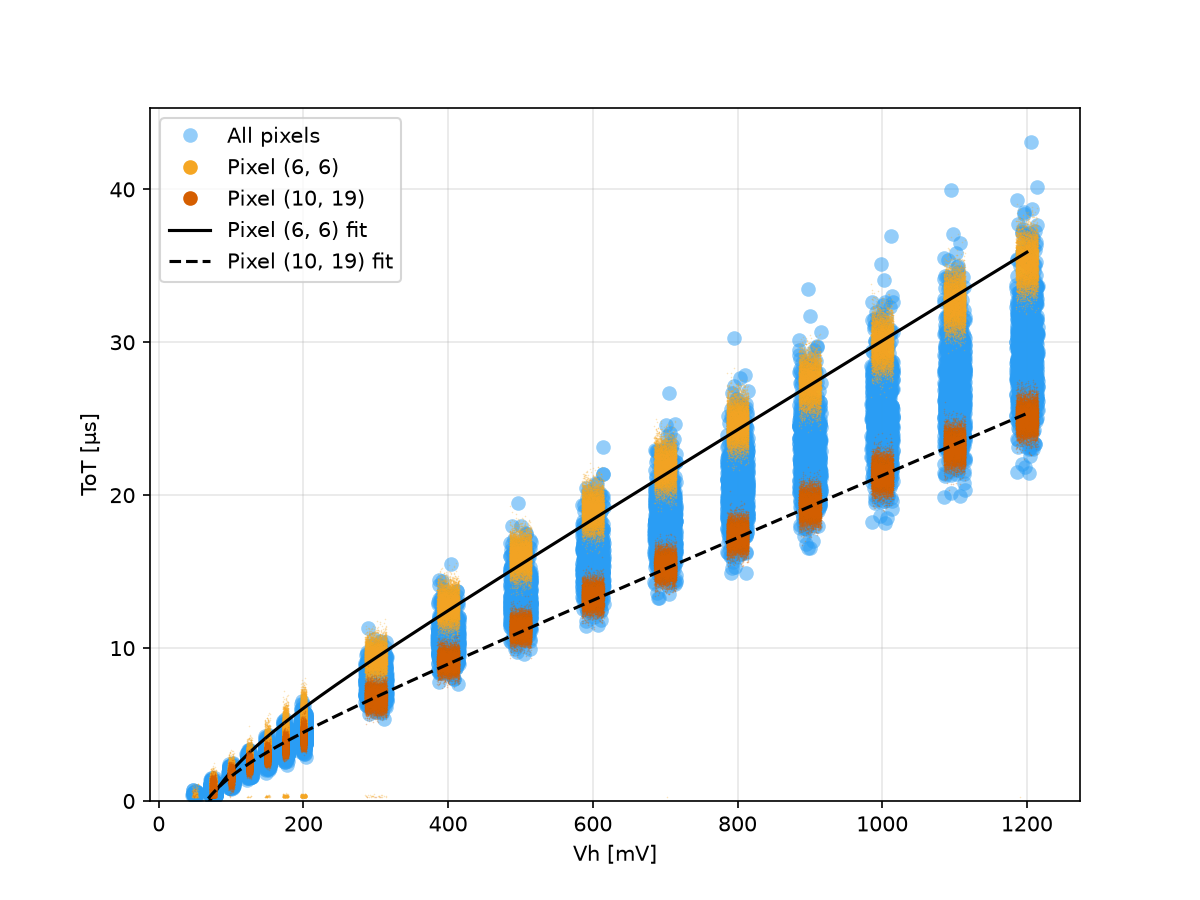
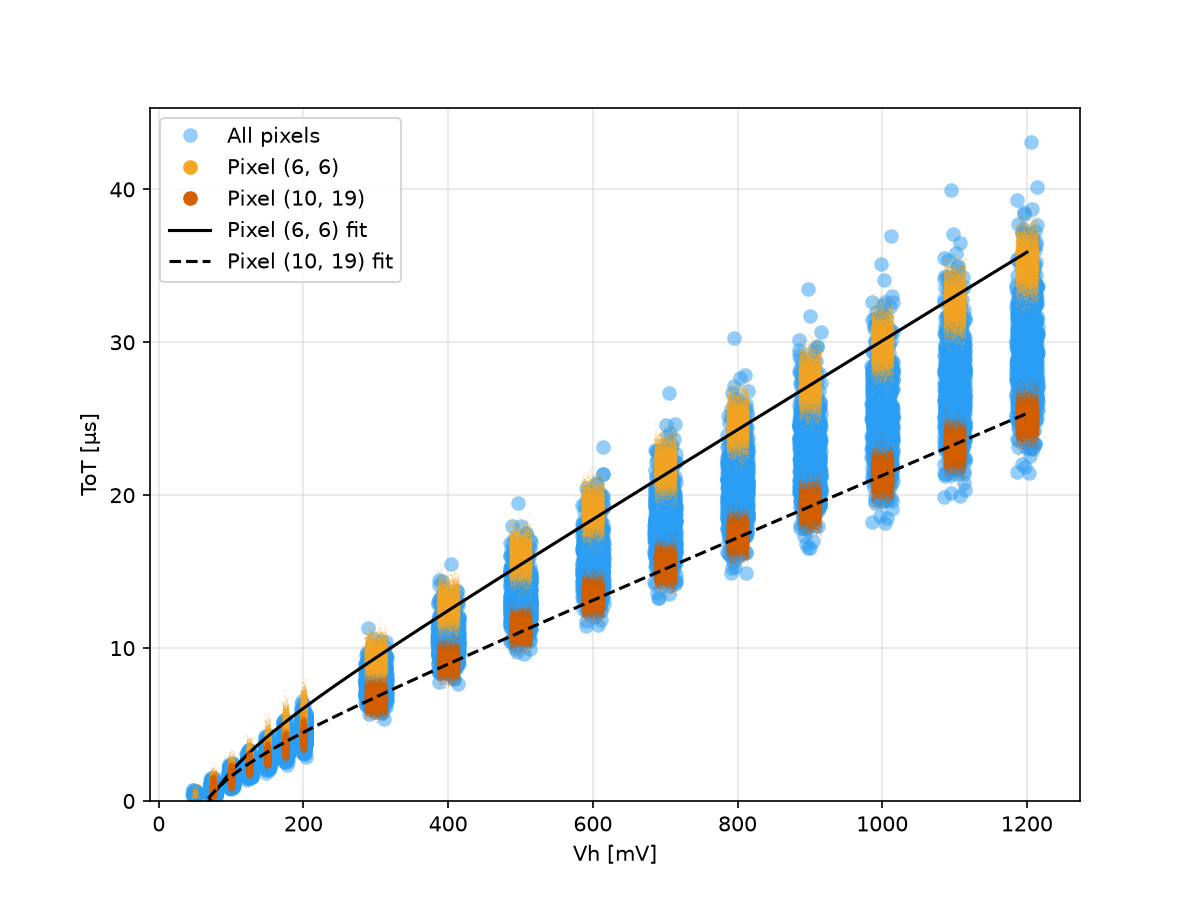
Plotted

diff --git a/analysis/Injections/ToT_vh.py b/analysis/Injections/ToT_vh.py
@@ -46,8 +46,14 @@ else:
 
 HIGHLIGHT = [(6, 6), (10, 19)]
 DOT_SIZE = 14  # marker size of the "All pixels" dots (one per pixel)
-HIGHLIGHT_COLORS = ["#f5a623", "#d55e00", "#8c3a00"]  # light, dark and darker orange, one per HIGHLIGHT pixel
-FIT_VH_MAX = 1200 #600
+HIGHLIGHT_COLORS = ["#f5a623", "#d55e00", "#8c3a00"]  
+
+# Double pulsing gives extra hits with a ToT of about 0.26-0.5 µs. In the plot with every hit of the HIGHLIGHT pixels,
+# hits shorter than DOUBLE_PULSE_TOT are left out, but only at a Vh where the pixel's median ToT is above
+# CUT_MIN_MEDIAN: close to the threshold the real hits are that short too, so there nothing is cut.
+DOUBLE_PULSE_TOT = 0.6  # µs
+CUT_MIN_MEDIAN = 1.5    # µs
+FIT_VH_MAX = 1200 
 
 # Noisy pixels are found only at VH <= NOISE_VH_MAX: the injection is too small to fire any pixel there,
 # so every hit is noise. At higher VH the cut would instead pick out pixels with a low threshold.
@@ -131,6 +137,11 @@ def plot_all_pixels(means, all_hits=False):
         else:
             for i, (x0, w) in enumerate(zip(vh, half_width)):
                 _, _, hits = load_run(VCASB, x0, col, row, DATA)
+                if hits.size and np.median(hits) > CUT_MIN_MEDIAN:
+                    short = hits < DOUBLE_PULSE_TOT
+                    if short.any():
+                        print(f"px ({col}, {row}) Vh = {x0} mV: {short.sum()} double-pulse hits below {DOUBLE_PULSE_TOT} µs left out")
+                    hits = hits[~short]
                 plt.plot(x0 + rng.uniform(-w, w, hits.size), hits, ".", color=color, ms=1.5, mew=0, alpha=0.3,
                          rasterized=True)
             # a legend entry with a visible marker, the hits themselves are tiny and transparent
